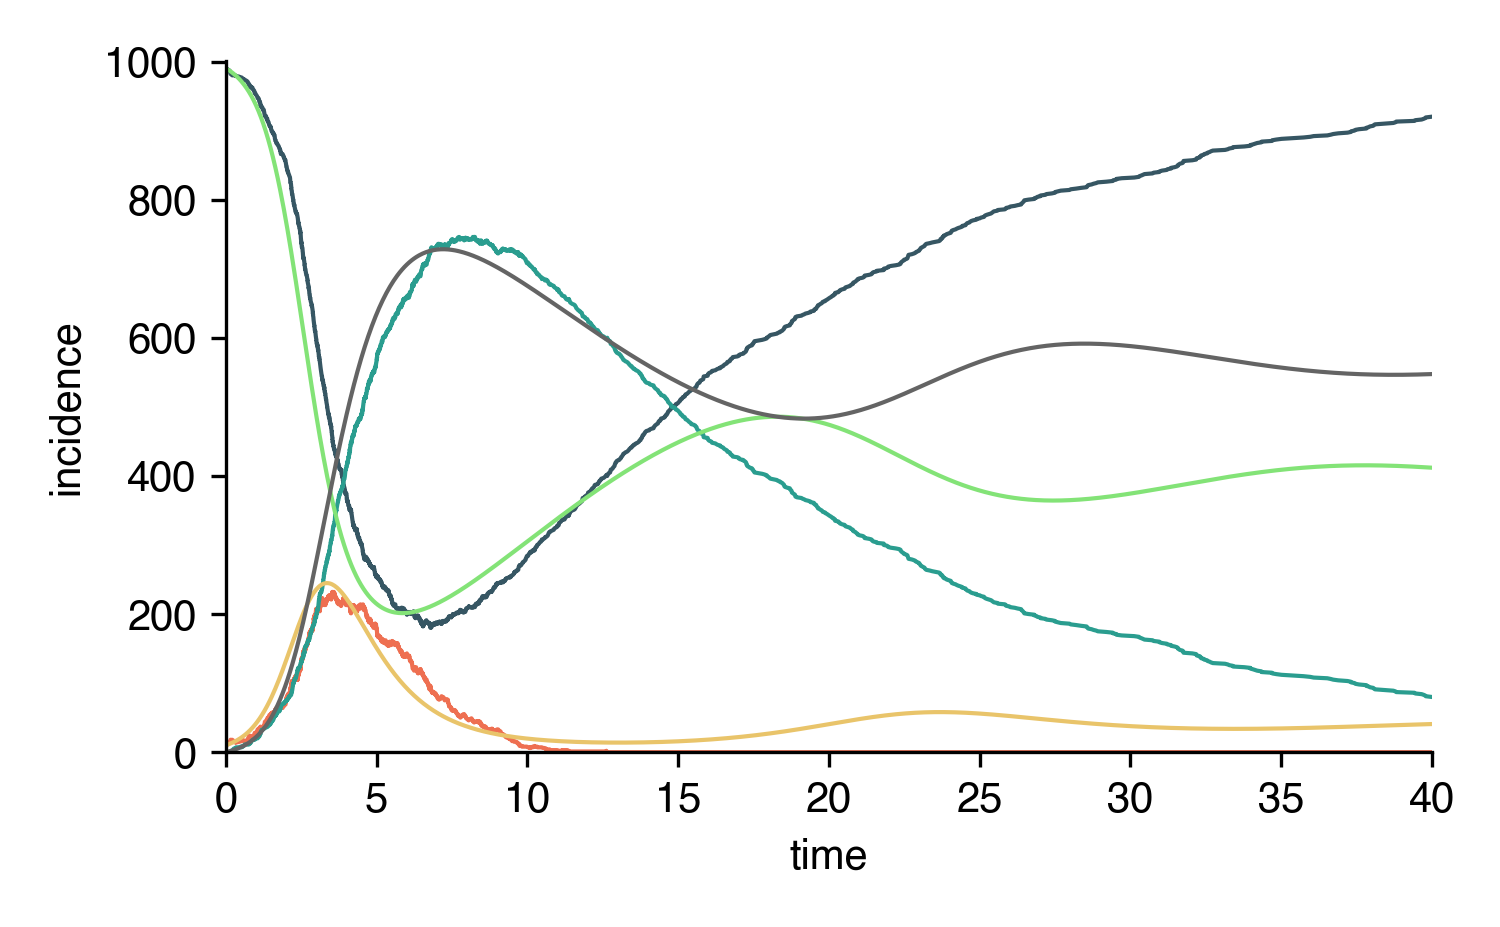
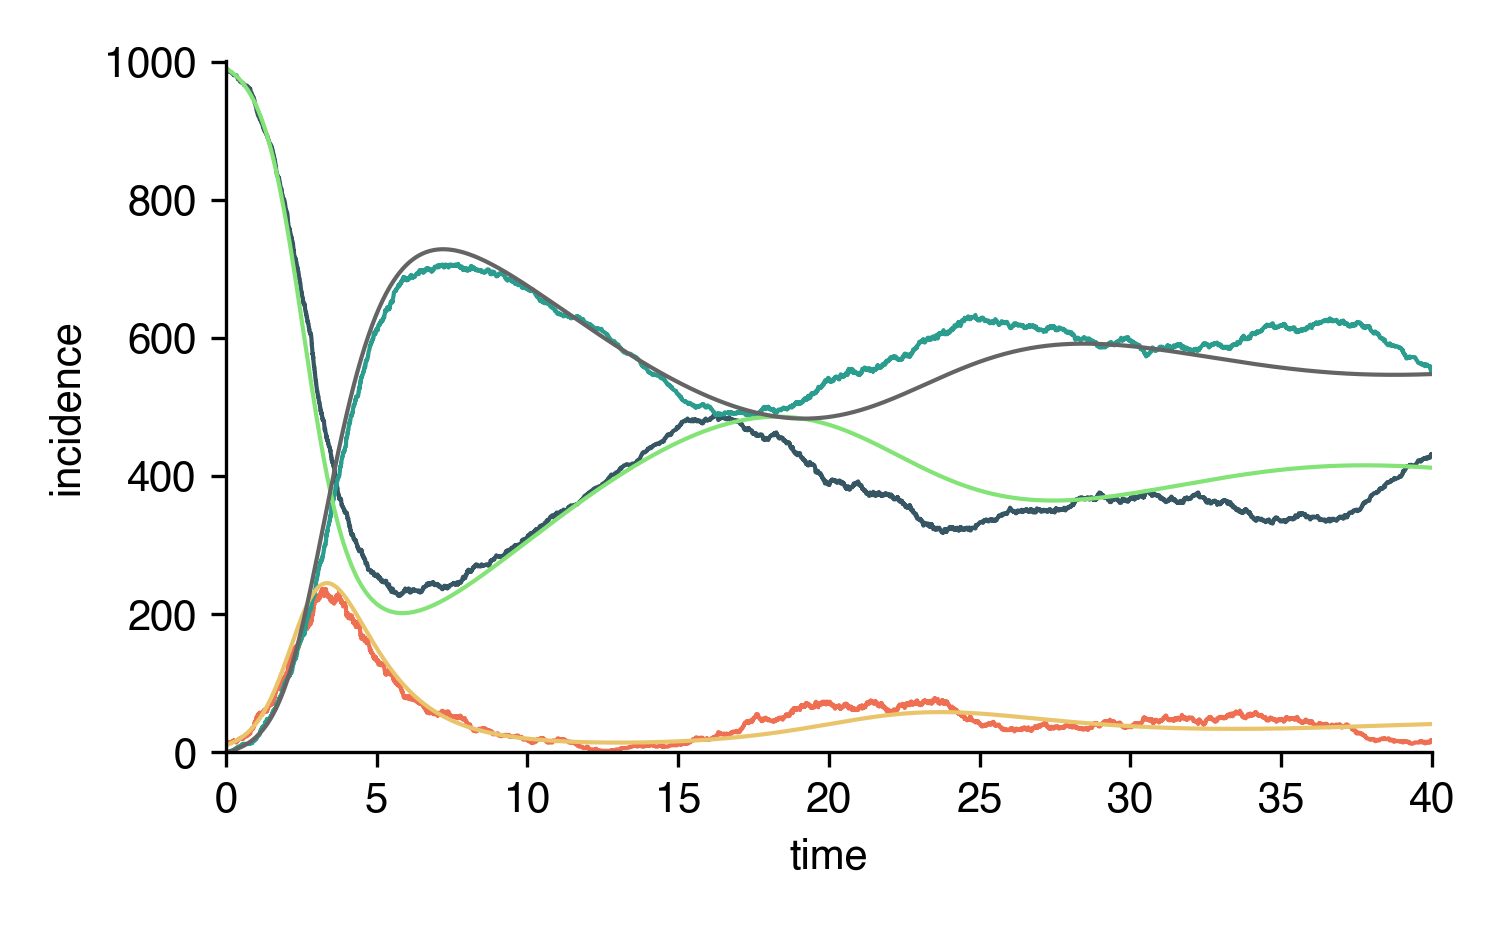
changed figure

diff --git a/img/README_plots.py b/img/README_plots.py
@@ -183,8 +183,8 @@ def symbolic_simulation_temporally_forced():
 
 
 if  __name__=="__main__":
-    #default_numeric_models()
+    default_numeric_models()
     #varying_rate_numeric_models()
-    symbolic_simulation_temporally_forced()
+    #symbolic_simulation_temporally_forced()
     #network_simulation()
     #network_simulation_visualization()
